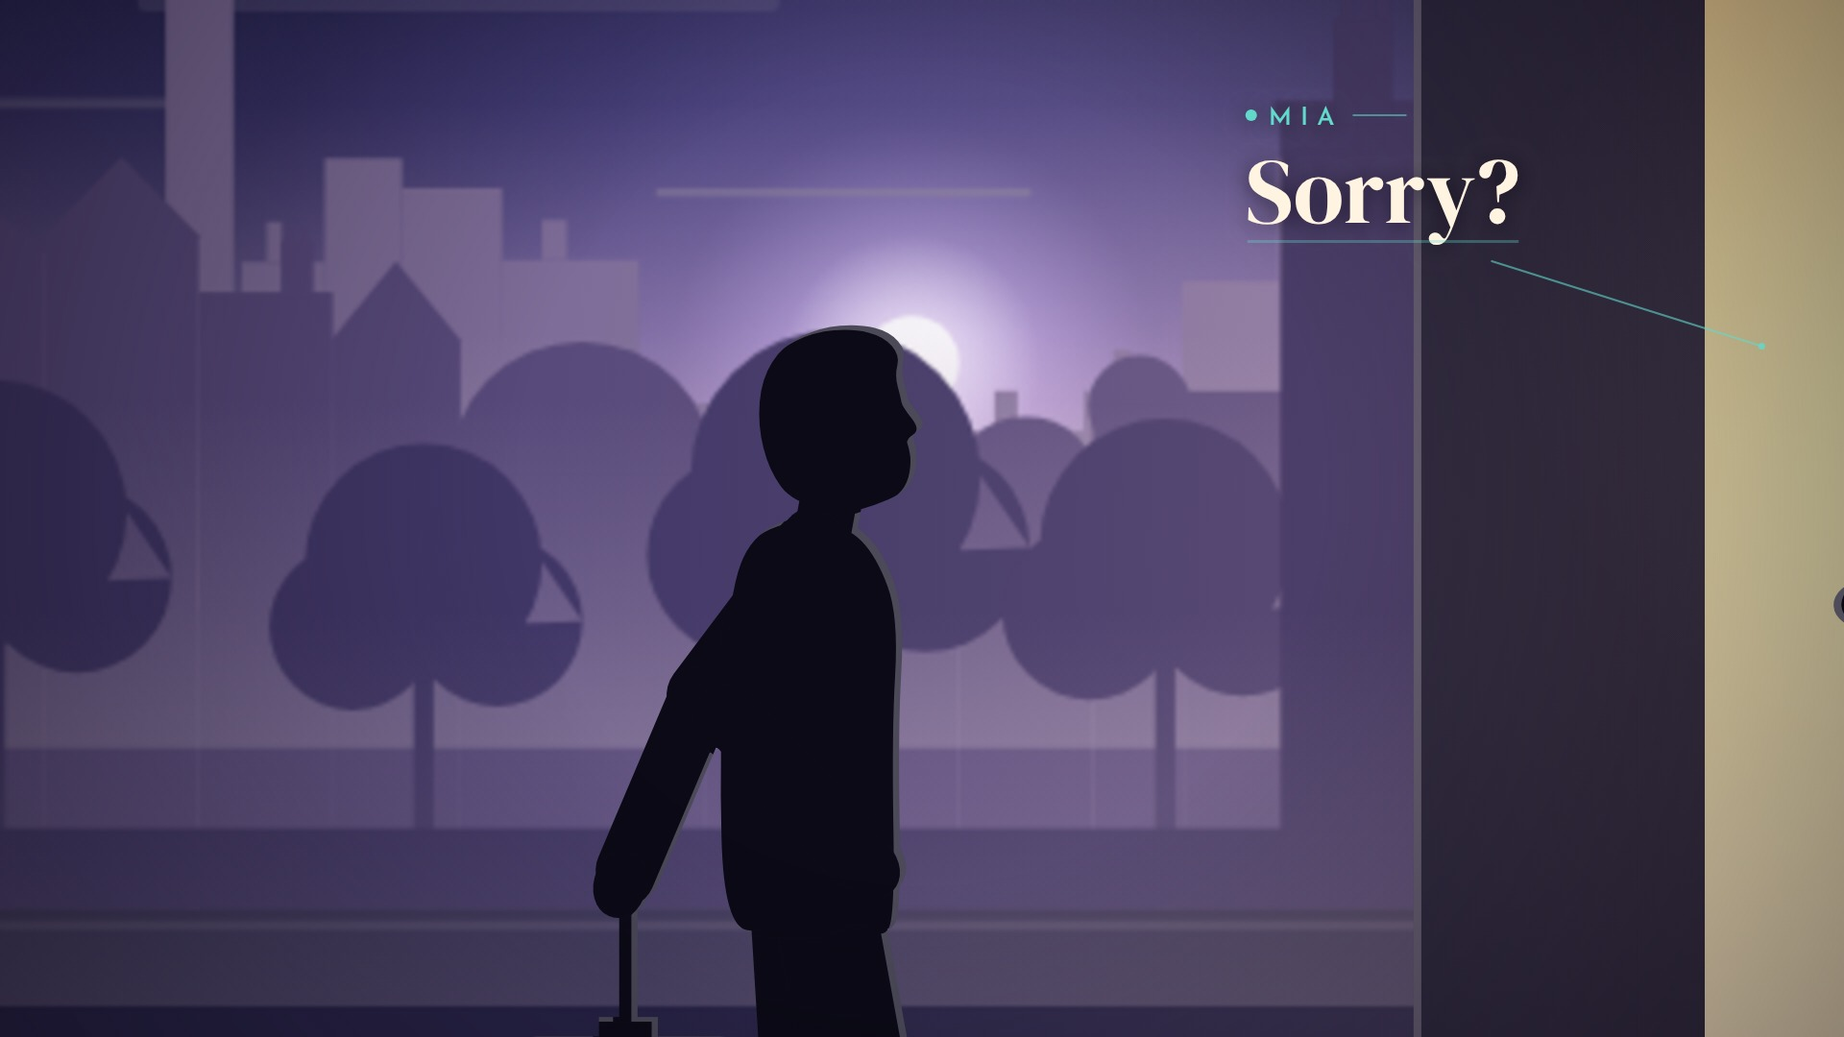
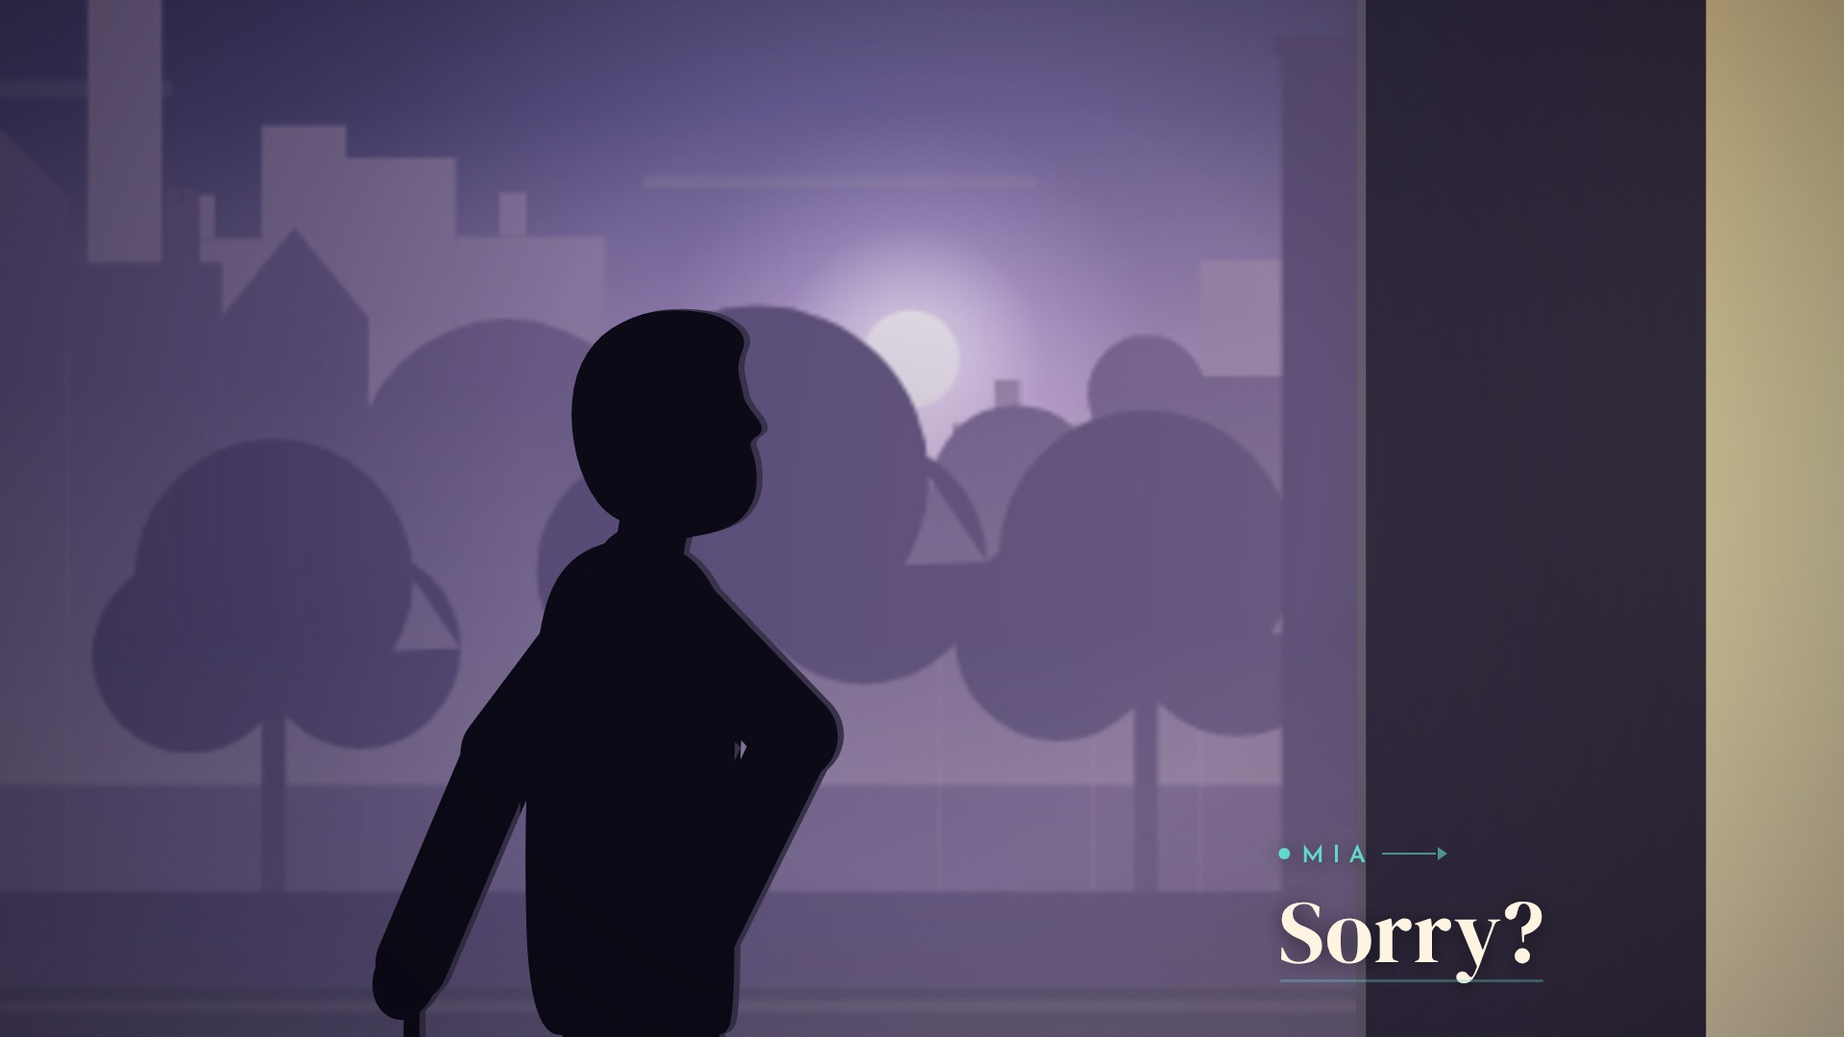
Add bean-people style test
Claude-Session: https://claude.ai/code/session_01Ey97nqMLT4oVRE1erYCZ22

diff --git a/production/style-tests/silhouettes/main.js b/production/style-tests/silhouettes/main.js
@@ -46,8 +46,8 @@ function mood(t) {
 // ---------------------------------------------------------------- camera
 function camera(t) {
   if (t < 7.75) { const u = eio(seg(t, 0, 7.75)); return { shot: 1, x: lerp(-120, 150, u), y: lerp(-390, -330, u), z: lerp(1.0, 1.25, u) }; }
-  if (t < 15.4) { const u = ss(seg(t, 7.75, 15.4)); return { shot: 2, x: lerp(415, 425, u), y: -155, z: lerp(2.2, 2.32, u) }; }
-  const u = eo(seg(t, 15.4, 17)); return { shot: 3, x: lerp(318, 322, u), y: lerp(-196, -200, u), z: lerp(5.0, 5.3, u) };
+  if (t < 15.4) { const u = ss(seg(t, 7.75, 15.4)); return { shot: 2, x: lerp(415, 425, u), y: lerp(-112, -116, u), z: lerp(2.2, 2.32, u) }; }
+  const u = eo(seg(t, 15.4, 17)); return { shot: 3, x: lerp(345, 347, u), y: lerp(-200, -203, u), z: lerp(6.0, 6.35, u) };
 }
 const scl = (p, cam) => 1 + (cam.z - 1) * p;
 const proj = (x, y, p, cam) => { const s = scl(p, cam); return [(x - cam.x * p) * s + 960, (y - cam.y * p) * s + 540]; };
@@ -89,7 +89,7 @@ const Y = {
   lean: K([[0, 0.06], [4.55, 0.06], [5.05, 0], [5.35, -0.045], [6.2, -0.045], [6.6, 0], [7.2, 0], [7.4, -0.03], [7.8, 0.01], [9.9, 0.02], [10.2, 0.05], [10.6, 0.03], [11.0, 0.01], [11.9, -0.02], [12.4, -0.02], [12.9, 0.04], [13.4, 0.04], [13.9, 0.05], [15.1, 0.05], [15.3, -0.02], [15.6, 0.05], [16.0, 0.08], [17, 0.08]]),
   head: K([[0, -0.05], [1.6, -0.14], [2.6, -0.14], [3.4, -0.02], [4.9, -0.02], [5.2, -0.24], [5.9, -0.22], [6.4, 0], [7.15, 0], [7.35, -0.08], [7.7, 0], [8.25, 0], [8.4, 0.1], [8.6, 0], [9.9, 0], [10.1, -0.06], [10.6, -0.04], [10.9, 0.14], [11.3, 0.12], [11.45, 0], [11.8, 0], [12.0, -0.13], [12.4, -0.13], [12.55, 0], [12.85, 0], [13.05, 0.09], [13.25, 0], [13.7, -0.04], [15.05, -0.04], [15.25, -0.1], [15.45, -0.08], [15.9, 0.27], [17, 0.3]]),
   drop: K([[0, 0], [15.45, 0], [15.95, 4.5], [17, 5.2]]),
-  handF: K2([[0, 6, -86], [5.25, 6, -86], [5.5, 11, -129], [5.75, 11, -121], [5.95, 11, -124], [6.35, 6, -86], [8.6, 6, -86], [8.8, 9, -92], [9.4, 8, -90], [9.85, 7, -88], [10.12, 14, -152], [10.55, 14, -152], [10.85, 12, -118], [11.25, 12, -116], [11.45, 13, -129], [12.4, 13, -129], [12.8, 13.5, -128], [13.05, 26, -120], [13.35, 26, -120], [13.8, 8, -95], [15.5, 8, -95], [15.82, 2, -150], [16.05, -10, -172], [17, -10, -172]]),
+  handF: K2([[0, 6, -86], [5.25, 6, -86], [5.5, 11, -129], [5.75, 11, -121], [5.95, 11, -124], [6.35, 6, -86], [8.6, 6, -86], [8.8, 9, -92], [9.4, 8, -90], [9.85, 7, -88], [10.12, 34, -158], [10.55, 34, -158], [10.85, 12, -118], [11.25, 12, -116], [11.45, 13, -129], [12.4, 13, -129], [12.8, 13.5, -128], [13.05, 26, -120], [13.35, 26, -120], [13.8, 8, -95], [15.5, 8, -95], [15.8, -8, -128], [17, -8, -128]]),
   handB: K2([[0, -24, -88], [4.6, -24, -88], [5.2, -28, -92], [17, -28, -92]]),
 };
 function youssefPose(t) {
@@ -106,7 +106,6 @@ function youssefPose(t) {
   hf = [lerp(hf[0], 6 - gF[0] * 0.6, w), lerp(hf[1], -86 + Math.abs(gF[0]) * 0.08, w)];
   const wave = env(t, 10.1, 10.6, 0.08, 0.1); hf[0] += 4.5 * wave * Math.sin(TAU * 3.2 * (t - 10.1));
   hf[0] -= 2.2 * pulse(t, 12.55, 0.09);                                 // pat on chest for "I"
-  const scr = env(t, 16.0, 17.2, 0.15, 0.1); hf[0] += 2.6 * scr * Math.sin(TAU * 4.6 * t); hf[1] += 1.3 * scr * Math.cos(TAU * 4.6 * t);
   const hb = Y.handB(t);
   hb[1] += w * 1.2 * Math.sin(phi * 2);
   let d = 48 * (1 - ss(seg(t, 4.55, 5.0)));
@@ -114,9 +113,16 @@ function youssefPose(t) {
   const stF = [5, 0], stB = [-8, 0];
   const fF = [lerp(stF[0], gF[0] + 2, w), -gF[1] * w], fB = [lerp(stB[0], gB[0] - 2, w), -gB[1] * w];
   const rF = -0.25 * w * Math.sin(Math.PI * gF[2]), rB = -0.25 * w * Math.sin(Math.PI * gB[2]);
-  return { x, y: 0, lift, lean, head, drop: Y.drop(t), hf, hb, fF, fB, rF, rB, d, wave };
+  const P = { x, y: 0, lift, lean, head, drop: Y.drop(t), hf, hb, fF, fB, rF, rB, d, wave, bendF: t > 15.45 ? -1 : 1, fsF: 1 };
+  const sb = ss(seg(t, 15.6, 16.05));
+  if (sb > 0) { // hand goes to the back of the head and scratches (target follows the head)
+    const J = youssefJoints(P), scr = env(t, 16.0, 17.3, 0.15, 0.1);
+    const tg = rot([-6 + 2.2 * scr * Math.sin(TAU * 4.4 * t), -20 + 1.4 * scr * Math.cos(TAU * 4.4 * t)], J.headPiv, J.headA);
+    P.hf = [lerp(hf[0], tg[0], sb), lerp(hf[1], tg[1], sb)];
+  }
+  return P;
 }
-const Y_HEAD = [[-6, 1], [-9.5, -4], [-11, -11], [-10.2, -18], [-6.8, -23], [-1, -25.6], [5, -25.9], [9.6, -24.6], [12, -21.6], [11.1, -18.6], [11.9, -15.2], [12.1, -13.8], [14.8, -10.2], [12.5, -8.8], [12.9, -7.5], [13.2, -5.4], [12.6, -2.2], [10.6, 0.2], [6.5, 1.8], [2.5, 2.8]];
+const Y_HEAD = [[-6, 1], [-9.5, -4], [-11, -11], [-10.2, -18], [-6.8, -23], [-1, -25.6], [5, -25.9], [9.8, -24.8], [12.8, -22], [11.2, -18.6], [11.9, -15.2], [12.1, -13.8], [14.8, -10.2], [12.5, -8.8], [12.9, -7.5], [13.4, -5.4], [13.2, -1.6], [11, 1.6], [6.5, 3], [2.5, 3.4]];
 function youssefJoints(P) {
   const hip = [0, -92 - P.lift], d = P.drop;
   const T = p => rot(p, hip, P.lean);
@@ -155,7 +161,7 @@ function drawYoussef(g, P, col) {
   // head
   g.save(); g.translate(J.headPiv[0], J.headPiv[1]); g.rotate(J.headA); smooth(g, Y_HEAD); g.fill(); g.restore();
   // front arm
-  const aF = ik(J.sh, P.hf, 29, 29, 1);
+  const aF = ik(J.sh, P.hf, 29 * P.fsF, 29, P.bendF);
   limb(g, J.sh, aF.e, 11.5); limb(g, aF.e, aF.h, 10.5); hand_(g, aF.e, aF.h, 1 + 0.2 * P.wave);
 }
 function hand_(g, e, h, k) { const a = Math.atan2(h[1] - e[1], h[0] - e[0]); g.beginPath(); g.ellipse(h[0] + Math.cos(a) * 2, h[1] + Math.sin(a) * 2, 5.6 * k, 4.4 * k, a, 0, TAU); g.fill(); }
@@ -166,7 +172,7 @@ const M = {
   x: K([[0, 640], [7.0, 640], [7.62, 549], [7.95, 545], [17, 545]]),
   lean: K([[0, 0.02], [7.7, 0.02], [7.9, 0], [8.2, -0.035], [9.3, -0.03], [9.8, 0.02], [11.5, 0.035], [13.4, 0.02], [13.8, -0.03], [14.3, -0.03], [14.75, 0.075], [17, 0.08]]),
   head: K([[0, 0], [8.1, 0], [8.25, -0.1], [9.3, -0.08], [9.8, 0.03], [10.3, 0.09], [10.5, 0.03], [11.5, 0.06], [11.7, 0.1], [11.9, 0.04], [13.4, 0.04], [13.8, -0.15], [14.3, -0.15], [14.75, 0.1], [17, 0.12]]),
-  handF: K2([[0, 5, -84], [7.85, 5, -84], [8.05, 12, -122], [8.2, 13, -154], [9.35, 13, -154], [9.75, 10, -96], [14.25, 10, -96], [14.65, 22, -106], [17, 22, -106]]),
+  handF: K2([[0, 5, -84], [7.85, 5, -84], [8.05, 14, -128], [8.2, 19, -160], [9.35, 19, -160], [9.75, 10, -96], [14.25, 10, -96], [14.65, 22, -106], [17, 22, -106]]),
   handB: K2([[0, -4, -85], [9.4, -4, -85], [9.8, 9, -97], [14.3, 9, -97], [14.65, -3, -86], [17, -3, -86]]),
 };
 function miaBase(t) {
@@ -219,7 +225,7 @@ function drawMia(g, P, col) {
   }
   // skirt
   g.fillStyle = ink;
-  smooth(g, [[-11.5, -10], [11.5, -10], [14.5, 10], [19, 37], [8, 39.5], [-8, 39.5], [-19, 37], [-14.5, 10]].map(J.T)); g.fill();
+  smooth(g, [[-11, -10], [11, -10], [13, 10], [15.5, 36], [7, 38.5], [-7, 38.5], [-16, 36], [-13.5, 10]].map(J.T)); g.fill();
   // cardigan
   g.fillStyle = acc;
   smooth(g, [[-11, 5], [-12.2, -14], [-11, -38], [-7.5, -45.5], [-1, -48], [4.8, -47.5], [7.6, -43.5], [10.8, -35], [9.6, -24], [10.6, -10], [11.6, 5], [6, 7], [-2, 7.2]].map(J.T)); g.fill();
@@ -277,7 +283,7 @@ function drawBackground(g, t, cam, P, r) {
   LT(g, 0.04, cam, r);
   g.lineCap = 'round';
   for (const [x, y, l, w, k] of [[-760, -470, 560, 15, 0.25], [160, -560, 760, 11, 0.35], [620, -330, 420, 9, 0.55], [-300, -300, 330, 7, 0.6], [-1100, -380, 380, 10, 0.45]]) {
-    g.strokeStyle = rgba(mix(P.skyMid, P.hor, k), 0.55); g.lineWidth = w;
+    g.strokeStyle = rgba(mix(P.skyMid, P.hor, k), 0.32); g.lineWidth = w * 1.6;
     const dx = t * 5; g.beginPath(); g.moveTo(x + dx, y); g.lineTo(x + l + dx, y); g.stroke();
   }
   // birds
@@ -383,10 +389,10 @@ function drawNear(g, t, cam, P) {
     g.fillStyle = near; g.fillRect(wx + 38, wy, 4, f ? 108 : 190); g.fillRect(wx, wy + (f ? 50 : 88), 80, 4); g.fillRect(wx - 8, wy + (f ? 108 : 190), 96, 7);
   }
   // sign band with backlit letters
-  g.fillStyle = rgba(mix(P.near, P.ink, 0.45)); g.fillRect(470, -484, 600, 62);
-  g.save(); g.font = '600 34px "Josefin Sans"'; g.letterSpacing = '9px'; g.textAlign = 'center'; g.textBaseline = 'middle';
+  g.fillStyle = rgba(mix(P.near, P.ink, 0.45)); g.fillRect(446, -482, 390, 58);
+  g.save(); g.font = '600 29px "Josefin Sans"'; g.letterSpacing = '8px'; g.textAlign = 'center'; g.textBaseline = 'middle';
   g.shadowColor = rgba(P.win, 0.9); g.shadowBlur = 18 * cam.z; g.fillStyle = rgba(mix(CREAM, P.win, 0.25));
-  g.fillText('ENGLISH SCHOOL', 775, -451); g.restore();
+  g.fillText('ENGLISH SCHOOL', 645, -451); g.restore();
   // classroom window
   g.fillStyle = rgba(P.win, 0.92); g.fillRect(700, -330, 240, 220);
   g.fillStyle = near; g.fillRect(776, -330, 5, 220); g.fillRect(858, -330, 5, 220); g.fillRect(700, -262, 240, 5); g.fillRect(690, -110, 260, 9);
@@ -413,7 +419,7 @@ function drawNear(g, t, cam, P) {
     g.globalCompositeOperation = 'lighter';
     const lg = g.createRadialGradient(540, -190, 20, 540, -190, 300); lg.addColorStop(0, rgba(P.win, 0.16 * o)); lg.addColorStop(1, rgba(P.win, 0));
     g.fillStyle = lg; g.fillRect(240, -490, 600, 600);
-    gr = g.createLinearGradient(0, 0, 0, 170); gr.addColorStop(0, rgba(P.win, 0.22 * o)); gr.addColorStop(1, rgba(P.win, 0));
+    gr = g.createLinearGradient(0, 0, 0, 170); gr.addColorStop(0, rgba(P.win, 0.12 * o)); gr.addColorStop(1, rgba(P.win, 0));
     g.fillStyle = gr; poly(g, [[458, 0], [622, 0], [740, 170], [340, 170]]); g.fill();
     g.globalCompositeOperation = 'source-over';
   }
@@ -438,8 +444,8 @@ function drawChar(t, cam, P, who, pose) {
   const head = proj(pose.x + dir * headL[0] * UNIT, pose.y + headL[1] * UNIT, 1, cam);
   const sun = proj(0, -150, 0.03, cam);
   let vx = sun[0] - head[0], vy = sun[1] - head[1]; const vl = Math.hypot(vx, vy) || 1; vx /= vl; vy /= vl;
-  const k = clamp(0.32 + 0.33 * lineOn(who, t) + 0.35 * speak(who, t));
-  const wpx = clamp(1.6 * cam.z, 2, 10);
+  const k = clamp(0.26 + 0.36 * lineOn(who, t) + 0.38 * speak(who, t));
+  const wpx = clamp(1.25 * cam.z, 2, 6.5);
   // halo behind the speaker
   const hk = 0.55 * lineOn(who, t) + 0.45 * speak(who, t);
   if (hk > 0.01) {
@@ -450,7 +456,7 @@ function drawChar(t, cam, P, who, pose) {
   }
   const place = (g, dx, dy) => { LT(g, 1, cam, 1, dx, dy); g.translate(pose.x, pose.y); g.scale(UNIT * dir, UNIT); };
   cg.setTransform(1, 0, 0, 1, 0, 0); cg.clearRect(0, 0, W, H);
-  const rc = rgba(mix(P.ink, P.rim, k));
+  const rc = rgba(mix(mix(P.ink, P.skyLow, 0.42), P.rim, clamp(0.45 * lineOn(who, t) + 0.55 * speak(who, t))));
   place(cg, 0, 0); draw(cg, pose, { ink: rc, acc: rc, mono: true });
   cg.globalCompositeOperation = 'source-atop';
   place(cg, -vx * wpx, -vy * wpx);
@@ -460,55 +466,53 @@ function drawChar(t, cam, P, who, pose) {
   ctx.setTransform(1, 0, 0, 1, 0, 0);
   if (who === 'mia' && t < 7.9) { ctx.save(); const cx = proj(600, 0, 1, cam)[0]; ctx.beginPath(); ctx.rect(0, 0, cx, H); ctx.clip(); ctx.drawImage(CL, 0, 0); ctx.restore(); }
   else ctx.drawImage(CL, 0, 0);
-  return head;
+  return proj(pose.x, pose.y, 1, cam);
 }
 
 // ---------------------------------------------------------------- type
 const SHADOW = g => { g.shadowColor = 'rgba(8,5,14,0.6)'; g.shadowBlur = 22; g.shadowOffsetY = 2; };
 let TEXTLIST = [];
-function englishLine(t, L, head, cam) {
+function englishLine(t, L, foot, cam) {
   const a = env(t, L.s0, L.s1, 0.28, 0.3); if (a <= 0.001) return;
   const g = ctx; g.setTransform(1, 0, 0, 1, 0, 0); g.save();
   const isMia = L.who === 'mia', acc = isMia ? LTEAL : LRED;
-  g.font = '96px "DM Serif Display"'; g.letterSpacing = '0px'; g.textBaseline = 'alphabetic'; g.textAlign = 'left';
+  const off = cam.shot === 3 && isMia;           // speaker is off-screen (right)
+  g.font = '92px "DM Serif Display"'; g.letterSpacing = '0.5px'; g.textBaseline = 'alphabetic'; g.textAlign = 'left';
   const words = L.text.split(' '), ws = words.map(w => g.measureText(w).width), sp = g.measureText(' ').width * 1.05;
   const total = ws.reduce((p, q) => p + q, 0) + sp * (words.length - 1);
-  let cx = isMia ? head[0] + 150 : head[0] - 40;
-  if (cam.shot === 3 && isMia) cx = 1440;
-  cx = clamp(cx, total / 2 + 110, W - total / 2 - 110);
-  const rise = (1 - eo(seg(t, L.s0, L.s0 + 0.5))) * 16;
-  const by = 232 + rise, x0 = cx - total / 2;
+  let cx = off ? 1470 : foot[0];
+  cx = clamp(cx, total / 2 + 120, W - total / 2 - 120);
+  const rise = (1 - eo(seg(t, L.s0, L.s0 + 0.5))) * 14;
+  const by = 1002 + rise, x0 = cx - total / 2, ly = by - 104;
   g.globalAlpha = a;
-  // label
-  g.font = '600 26px "Josefin Sans"'; g.letterSpacing = '9px'; g.fillStyle = rgba(acc);
+  // label: dot + NAME + rule (+ arrow when the speaker is off-screen)
+  g.font = '600 25px "Josefin Sans"'; g.letterSpacing = '9px'; g.fillStyle = rgba(acc);
   SHADOW(g); const label = isMia ? 'MIA' : 'YOUSSEF';
-  g.beginPath(); g.arc(x0 + 6, by - 112, 6, 0, TAU); g.fill();
-  g.fillText(label, x0 + 24, by - 102);
-  const lw = g.measureText(label).width;
-  g.shadowColor = 'transparent'; g.fillStyle = rgba(acc, 0.55); g.fillRect(x0 + 34 + lw, by - 113, 56 * eo(seg(t, L.s0 + 0.1, L.s0 + 0.6)), 2);
-  // words (karaoke)
+  const dotX = x0 + 6;
+  g.beginPath(); g.arc(dotX, ly - 9, 6, 0, TAU); g.fill();
+  g.fillText(label, x0 + 24, ly);
+  const lw = g.measureText(label).width, rl = 56 * eo(seg(t, L.s0 + 0.1, L.s0 + 0.6));
+  g.shadowColor = 'transparent'; g.fillStyle = rgba(acc, 0.6); g.fillRect(x0 + 32 + lw, ly - 10, rl, 2);
+  if (off) { const ax = x0 + 32 + lw + rl; g.beginPath(); g.moveTo(ax + 2, ly - 16); g.lineTo(ax + 12, ly - 9); g.lineTo(ax + 2, ly - 2); g.fill(); }
+  // pointer: hairline from the dot up to the speaker's feet
+  if (!off && foot[1] < ly - 60) {
+    const pk = eo(seg(t, L.s0 + 0.1, L.s0 + 0.55));
+    const sx = dotX, sy = ly - 24, ex = foot[0], ey = foot[1] + 16;
+    g.strokeStyle = rgba(acc, 0.55); g.lineWidth = 2; g.beginPath(); g.moveTo(sx, sy); g.lineTo(lerp(sx, ex, pk), lerp(sy, ey, pk)); g.stroke();
+  }
+  // words: dim until spoken, accent underline under the active word
   const spans = TALK.filter(s => s[2] === L.who && s[0] >= L.t0 - 0.3 && s[0] <= L.t1 + 0.3);
-  g.font = '96px "DM Serif Display"'; g.letterSpacing = '0px';
+  g.font = '92px "DM Serif Display"'; g.letterSpacing = '0.5px';
   let x = x0;
   words.forEach((w, i) => {
     const s = spans[i];
-    const k = s ? lerp(0.45, 1, ss(seg(t, s[0] - 0.06, s[0] + 0.08))) : 1;
+    const k = s ? lerp(0.5, 1, ss(seg(t, s[0] - 0.06, s[0] + 0.08))) : 1;
     SHADOW(g); g.fillStyle = rgba(CREAM, k); g.fillText(w, x, by);
     if (s) { const act = env(t, s[0] - 0.04, s[1] + 0.22, 0.06, 0.25); if (act > 0) { g.shadowColor = 'transparent'; g.fillStyle = rgba(acc, act); g.fillRect(x + 2, by + 18, (ws[i] - 4) * eo(seg(t, s[0] - 0.04, s[1])), 3); } }
     x += ws[i] + sp;
   });
-  // pointer hairline to the speaker
-  const off = cam.shot === 3 && isMia;
-  const tx = off ? W - 24 : head[0], ty = off ? 380 : head[1] - 70 * cam.z / 2.2;
-  const sx = clamp(tx, x0 + 30, x0 + total - 30), sy = by + 40;
-  const ex = lerp(sx, tx, 0.82), ey = lerp(sy, ty, 0.82);
-  if (ey > sy + 10) {
-    const pk = eo(seg(t, L.s0 + 0.15, L.s0 + 0.6));
-    g.shadowColor = 'transparent'; g.strokeStyle = rgba(acc, 0.6); g.lineWidth = 2; g.beginPath(); g.moveTo(sx, sy); g.lineTo(lerp(sx, ex, pk), lerp(sy, ey, pk)); g.stroke();
-    g.fillStyle = rgba(acc, 0.8 * pk); g.beginPath(); g.arc(lerp(sx, ex, pk), lerp(sy, ey, pk), 3.5, 0, TAU); g.fill();
-  }
   g.restore();
-  TEXTLIST.push({ id: 'en_' + L.t0, text: L.text, x0, y0: by - 130, x1: x0 + total, y1: by + 24 });
+  TEXTLIST.push({ id: 'en_' + L.t0, text: L.text, x0, y0: ly - 30, x1: x0 + total, y1: by + 24 });
 }
 function arabic(t) {
   const g = ctx; g.setTransform(1, 0, 0, 1, 0, 0);
@@ -523,13 +527,14 @@ function arabic(t) {
 function chapter(t) {
   const a = env(t, 0.5, 4.4, 0.5, 0.6); if (a <= 0.001) return;
   const g = ctx; g.setTransform(1, 0, 0, 1, 0, 0); g.save(); g.globalAlpha = a; SHADOW(g);
-  g.font = '600 24px "Josefin Sans"'; g.letterSpacing = '10px'; g.textAlign = 'right'; g.fillStyle = rgba(CREAM, 0.92);
-  g.fillText('DAY 1  ·  LONDON', 1830, 128);
-  g.shadowColor = 'transparent'; g.fillStyle = rgba(LRED, 0.8); g.fillRect(1830 - 150 * eo(seg(t, 0.7, 1.6)), 146, 150 * eo(seg(t, 0.7, 1.6)), 2);
-  SHADOW(g); g.font = '500 32px "Reem Kufi"'; g.letterSpacing = '0px'; g.direction = 'rtl'; g.textAlign = 'left'; g.fillStyle = rgba(CREAM, 0.85);
-  g.fillText('يوميات يوسف', 1830, 196);
+  g.font = '600 24px "Josefin Sans"'; g.letterSpacing = '12px'; g.textAlign = 'center'; g.fillStyle = rgba(CREAM, 0.92);
+  g.fillText('DAY 1  ·  LONDON', 966, 112);
+  const rl = 90 * eo(seg(t, 0.7, 1.6));
+  g.shadowColor = 'transparent'; g.fillStyle = rgba(LRED, 0.8); g.fillRect(960 - rl, 132, rl * 2, 2);
+  SHADOW(g); g.font = '500 32px "Reem Kufi"'; g.letterSpacing = '0px'; g.direction = 'rtl'; g.fillStyle = rgba(CREAM, 0.85);
+  g.fillText('يوميات يوسف', 960, 182);
   g.restore();
-  TEXTLIST.push({ id: 'chapter', text: 'DAY 1 · LONDON يوميات يوسف', x0: 1500, y0: 100, x1: 1830, y1: 205 });
+  TEXTLIST.push({ id: 'chapter', text: 'DAY 1 · LONDON يوميات يوسف', x0: 760, y0: 85, x1: 1160, y1: 195 });
 }
 
 // ---------------------------------------------------------------- vignette
@@ -546,6 +551,7 @@ function render(t) {
   ctx.imageSmoothingEnabled = true; ctx.imageSmoothingQuality = 'high';
   if (r === 0.25) { const m = MID.getContext('2d'); m.imageSmoothingQuality = 'high'; m.drawImage(bgc, 0, 0, W / 2, H / 2); ctx.drawImage(MID, 0, 0, W, H); }
   else if (r === 0.5) ctx.drawImage(bgc, 0, 0, W, H); else ctx.drawImage(bgc, 0, 0);
+  if (r < 1) { ctx.fillStyle = rgba(mix(P.haze, P.skyMid, 0.35), r === 0.5 ? 0.1 : 0.26); ctx.fillRect(0, 0, W, H); }
   drawNear(ctx, t, cam, P);
   const yp = youssefPose(t), mp = miaPose(t);
   const heads = {};
@@ -554,7 +560,7 @@ function render(t) {
   drawLeaves(ctx, t, cam, P);
   ctx.setTransform(1, 0, 0, 1, 0, 0); ctx.drawImage(VIG, 0, 0);
   chapter(t); arabic(t);
-  for (const L of LINES) englishLine(t, L, heads[L.who] || [1700, 400], cam);
+  for (const L of LINES) englishLine(t, L, heads[L.who] || [1700, 700], cam);
   // fades
   const f = Math.max(1 - seg(t, 0, 0.5), seg(t, 16.5, 17));
   if (f > 0) { ctx.setTransform(1, 0, 0, 1, 0, 0); ctx.fillStyle = `rgba(10,6,16,${f})`; ctx.fillRect(0, 0, W, H); }

diff --git a/production/style-tests/bean-people/main.js b/production/style-tests/bean-people/main.js
@@ -183,14 +183,14 @@ function mia(t) {
 
 // ---------------- UI: bubbles, subtitles ----------------
 const LINES = [
-  { who: 'mia', t0: 7.92, t1: 9.95, words: [['Hi!', 8.2], ["I'm", 8.7], ['Mia.', 8.8]] },
+  { who: 'mia', t0: 7.92, t1: 10.15, words: [['Hi!', 8.2], ["I'm", 8.7], ['Mia.', 8.8]] },
   { who: 'youssef', t0: 9.85, t1: 14.25, words: [['Hello!', 10.1], ['I...', 11.4], ['I', 12.5], ['Youssef.', 12.8]] },
-  { who: 'mia', t0: 14.85, t1: 16.45, words: [['Sorry?', 15.05]] },
+  { who: 'mia', t0: 14.85, t1: 16.7, words: [['Sorry?', 15.05]] },
 ];
 const SUBS = [
   { t0: 0.3, t1: 2.2, text: 'أول يوم ليّا في لندن…' },
   { t0: 2.25, t1: 5.35, text: 'وكنت فاكر إن الإنجليزي بتاعي كويس.' },
-  { t0: 5.4, t1: 7.75, text: 'لحد ما قابلت ميا.' },
+  { t0: 5.4, t1: 7.9, text: 'لحد ما قابلت ميا.' },
 ];
 const BFONT = '600 60px Fredoka';
 let texts = [];
@@ -313,9 +313,9 @@ function dayChip(t) {
   c.letterSpacing = '0px'; c.globalAlpha = 1;
 }
 function questionMark(t, p) {
-  const k = back(seg(t, 14.42, 14.7), 2.6) * (1 - ss(seg(t, 16.2, 16.5)));
+  const k = back(seg(t, 14.42, 14.7), 2.6) * (1 - ss(seg(t, 15.2, 15.38)));
   if (k <= 0) return;
-  const [sx, sy] = toScreen(p.x + 40, p.gy - MIA.H - 70);
+  const [sx, sy] = toScreen(p.x - 62, p.gy - MIA.H - 34);
   c.save(); c.translate(sx, sy); c.rotate(0.18 + 0.05 * Math.sin(t * 5)); c.scale(k * CAMV[2] / 1.8, k * CAMV[2] / 1.8);
   c.font = '400 92px "Lilita One"'; c.textAlign = 'center'; c.textBaseline = 'middle';
   c.fillStyle = INKA(0.16); c.fillText('?', 0, 8);
@@ -364,7 +364,7 @@ function render(t) {
   const headY = toScreen(py.x - 10, py.gy - YOUSSEF.H - 20), headM = toScreen(pm.x + 10, pm.gy - MIA.H - 20);
   bubble(t, LINES[0], headM, 1);
   bubble(t, LINES[1], headY, -1);
-  bubble(t, LINES[2], toScreen(pm.x - 20, pm.gy - MIA.H * 0.75), 1);
+  bubble(t, LINES[2], headM, 1);
   thought(t, toScreen(py.x - 40, py.gy - YOUSSEF.H * 0.98));
   subtitles(t);
   dayChip(t);

diff --git a/production/style-tests/bean-people/TREATMENT.md b/production/style-tests/bean-people/TREATMENT.md
@@ -1,0 +1,21 @@
+# "First day" — Bean People treatment (17 s style test)
+
+**Idea.** Youssef's diary as a flat, sunny picture-book London. People are beans: one silhouette, one
+colour band of clothing, a signature accessory. Acting is carried by squash/stretch, lean, the face
+sliding round the bean, brows and a single mouth line — readable at phone size.
+
+| t (s) | Picture | Camera |
+|---|---|---|
+| 0–0.7 | Iris opens on a red double-decker stopped at the kerb. "DAY 1 · LONDON" chip. | wide, slight pull-back |
+| 0.5–2.5 | The bus pulls away and reveals Youssef + red suitcase; he looks around, hops for joy. | wide |
+| 2.9–5.4 | Proud bouncy walk to the ENGLISH SCHOOL, pulling the suitcase ("my English is good"). | eased track + push |
+| 5.4–7.2 | Looks up at the sign ("o" mouth), worry, gulp + collar tug. | push in |
+| 7.1–7.9 | The teal door swings; Mia is revealed behind it and hops out onto the pavement. | ease into two-shot |
+| 8.0–9.5 | "Hi! I'm Mia." — wave, bounce, happy eyes. Bubble words darken as spoken. | two-shot |
+| 9.9–13.6 | "Hello! I... I Youssef." — eager wave, eyes dart on "I...", taps chest on "I Youssef". | two-shot, slow drift |
+| 14.3–15.2 | Mia's head tilts, one brow up, teal "?" — "Sorry?" (spoken 15.05). | two-shot |
+| 15.25–16.5 | Snap-zoom: Youssef shrinks, blush + hatch lines, wobbly mouth, sweat drop, scratches head. A thought bubble "I [ ? ] Youssef." gets "am" dropped into its slot. | close-up |
+| 16.45–17.0 | Iris closes on his face. | close-up |
+
+Arabic narration is a bottom ink pill (RTL, 3 lines, ≥ 1.9 s each) with a mustard diary mark.
+Build: `sh build.sh` (render → stills → mux with the supplied voice track).
